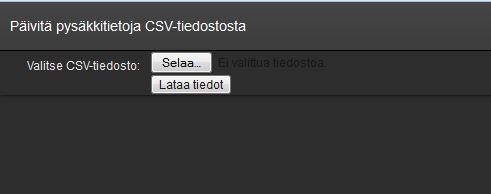
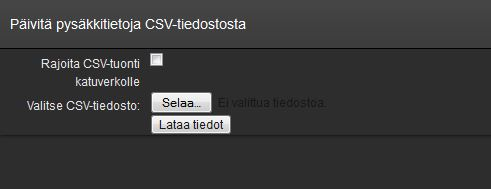
updating CSV-import on operator manual

Changed region(s): [[0.0, 0.2381, 1.0, 0.7143], [0.0, 0.0794, 0.5193, 0.1852], [0.0, 0.0, 1.0, 0.0265]]

diff --git a/UI/manual/operaattorimanuaali.md b/UI/manual/operaattorimanuaali.md
@@ -27,7 +27,7 @@ Importeilla vied&auml;&auml;n aineistoja j&auml;rjestelm&auml;&auml;n.
 2.1 CSV-vienti
 --------------
 
-Joukkoliikenteen pys&auml;kkien suomenkielisi&auml; nimi&auml; ja tyyppi&auml; voi p&auml;ivitt&auml;&auml; viem&auml;ll&auml; .csv-tiedoston [k&auml;ytt&ouml;liittym&auml;n](https://testiextranet.liikennevirasto.fi/digiroad/excel_import.html ) kautta j&auml;rjestelm&auml;&auml;n. 
+Joukkoliikenteen pys&auml;kkien suomenkielisi&auml; nimi&auml; ja tyyppi&auml; voi p&auml;ivitt&auml;&auml; viem&auml;ll&auml; .csv-tiedoston [k&auml;ytt&ouml;liittym&auml;n](https://testiextranet.liikennevirasto.fi/digiroad/excel_import.html ) kautta j&auml;rjestelm&auml;&auml;n. Pelk&auml;st&auml;&auml;n katuverkon pys&auml;kkej&auml; voi p&auml;ivitt&auml;&auml; klikkaamalla k&auml;ytt&ouml;liittym&auml;st&auml; "Rajoita CSV-tuonti katuverkolle"-kohdan valituksi.
 
 ![CSV-vienti](k23.JPG)
 
